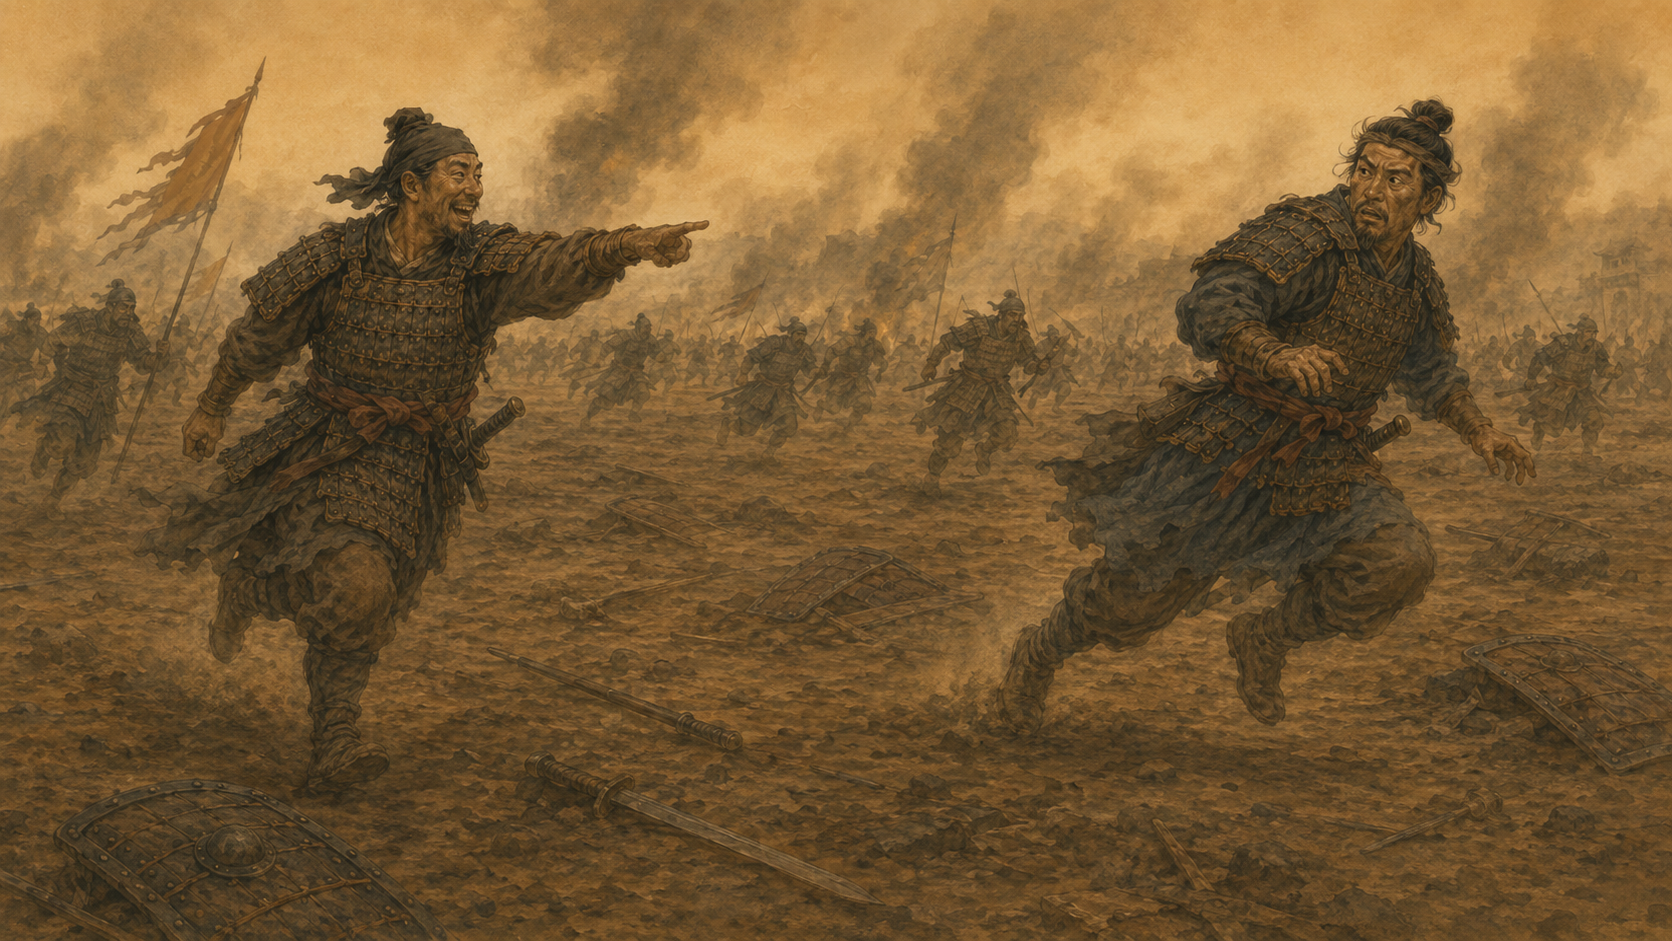
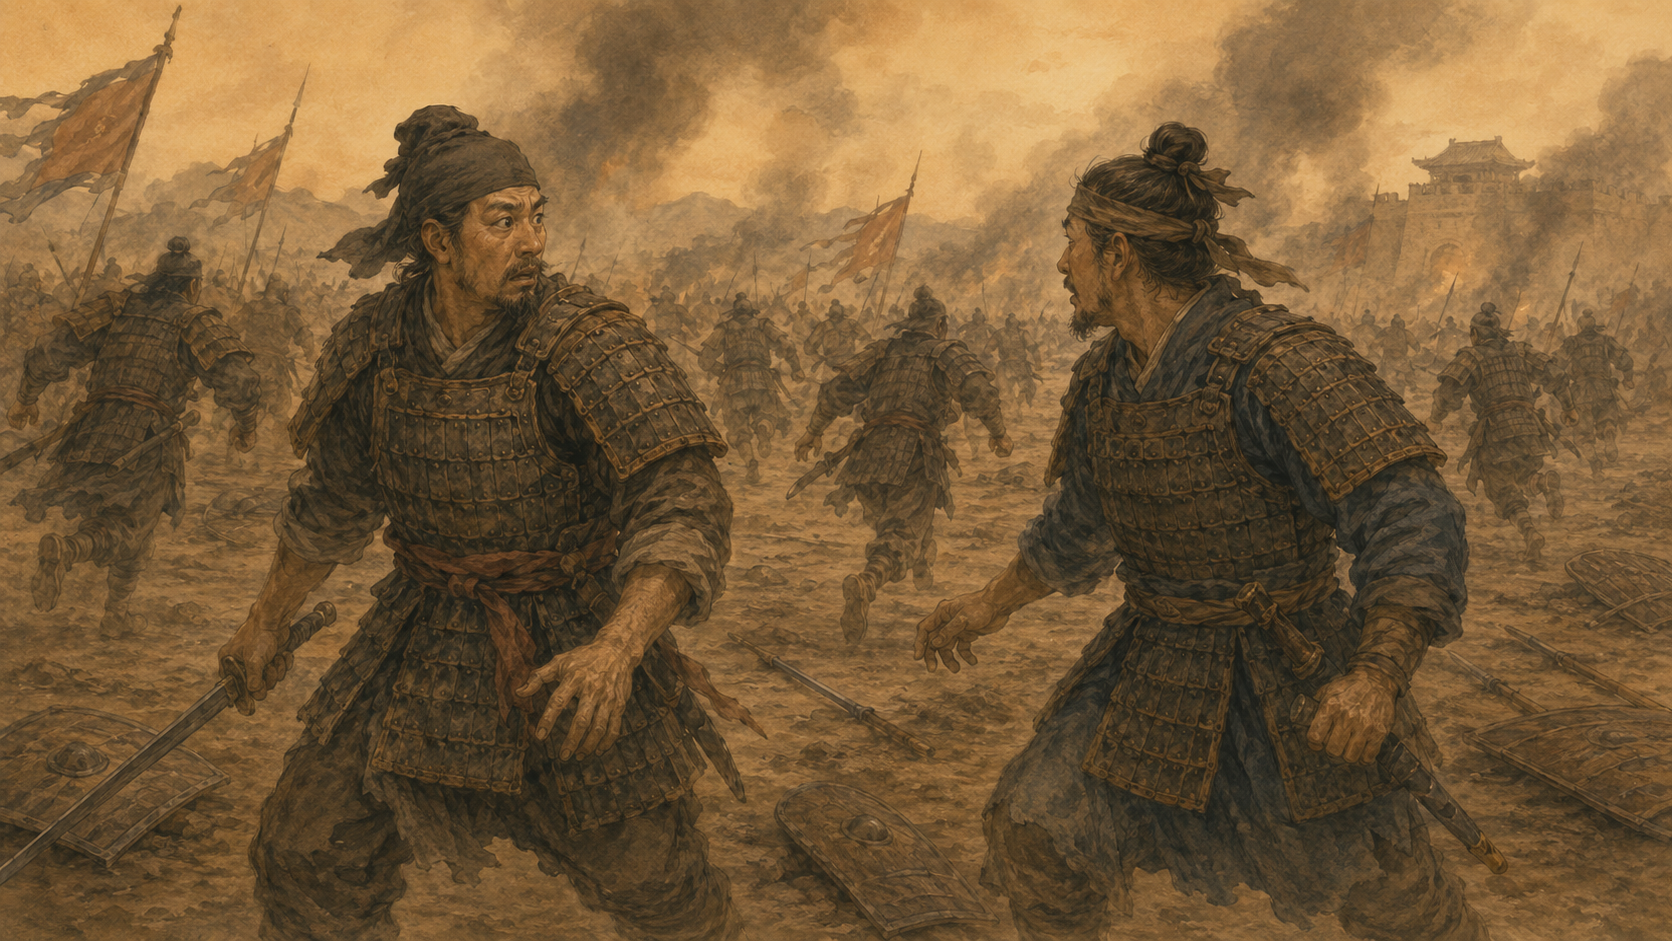
오십보백보 3장면 구성으로 확장: 왕과 맹자 대화 삽화 추가
- 새 삽화(양혜왕·맹자 대화)를 1번으로, 기존 전투·비웃음 삽화를 2·3번으로 재배치
- 결론 장면은 다시 궁궐 대화 그림으로 돌아오도록 구성

diff --git a/index.html b/index.html
@@ -256,14 +256,14 @@ const IDIOMS = [
     script:[
       {img:1,s:"양혜왕",t:"나는 백성을 위해 애쓰는데 왜 이웃 나라보다 백성이 늘지 않소?"},
       {img:1,s:"맹자",t:"전쟁에 비유해 보겠습니다."},
-      {img:1,n:1,t:"전투가 벌어지자, 겁먹은 병사들이 갑옷을 버리고 달아났다."},
-      {img:1,n:1,t:"오십 보를 도망친 병사가, 백 보를 도망친 병사를 비웃었다."},
-      {img:1,choice:"오십 보 병사의 비웃음, 옳을까?",opts:[
+      {img:2,n:1,t:"전투가 벌어지자, 겁먹은 병사들이 갑옷을 버리고 달아났다."},
+      {img:3,n:1,t:"오십 보를 도망친 병사가, 백 보를 도망친 병사를 비웃었다."},
+      {img:3,choice:"오십 보 병사의 비웃음, 옳을까?",opts:[
         {label:"옳다 — 덜 도망쳤으니까",fb:"맹자는 고개를 저었다."},
         {label:"똑같다 — 둘 다 도망쳤으니까",fb:"맹자가 고개를 끄덕였다."}
       ]},
-      {img:2,s:"맹자",t:"오십 보든 백 보든, 달아난 것은 마찬가지입니다."},
-      {img:2,n:1,t:"정도의 차이는 있어도 본질은 다르지 않다는 뜻이었다."}
+      {img:1,s:"맹자",t:"오십 보든 백 보든, 달아난 것은 마찬가지입니다."},
+      {img:1,n:1,t:"정도의 차이는 있어도 본질은 다르지 않다는 뜻이었다."}
     ]
   },
   {